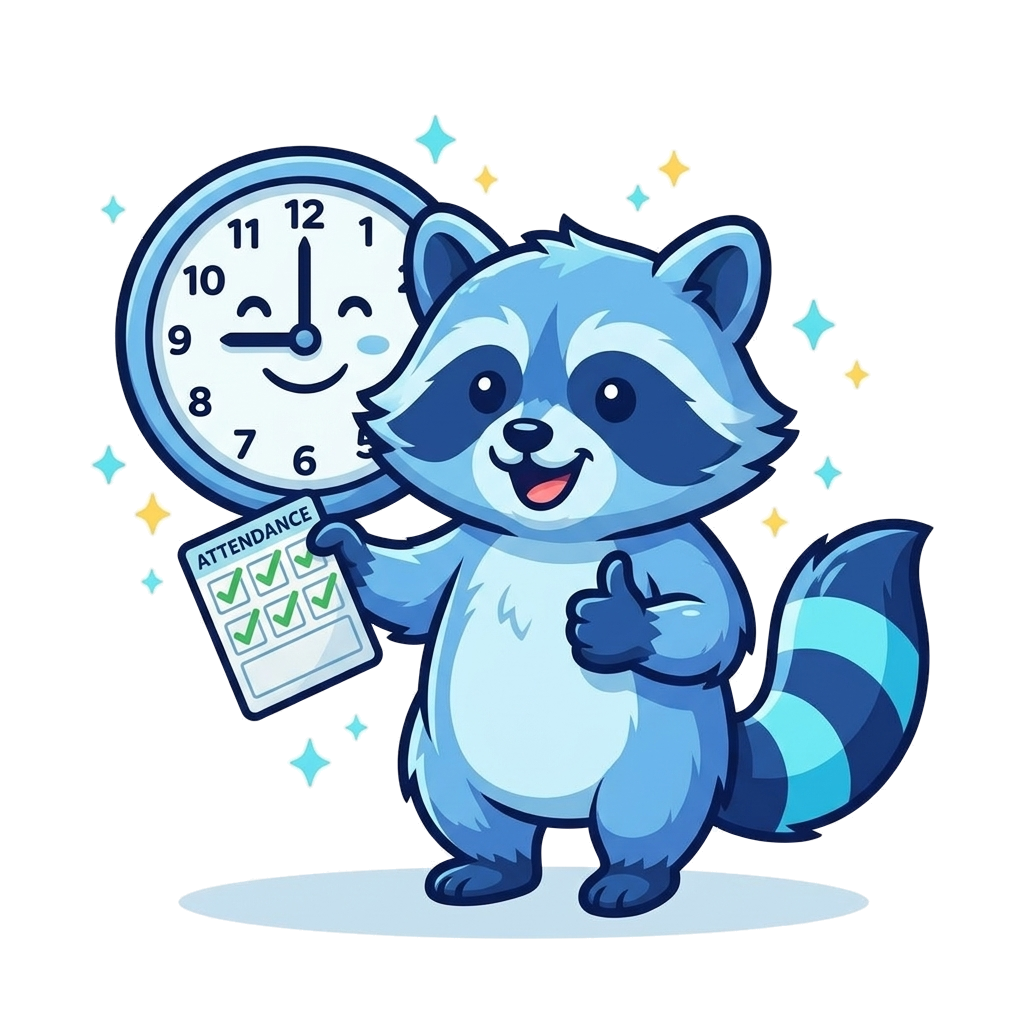
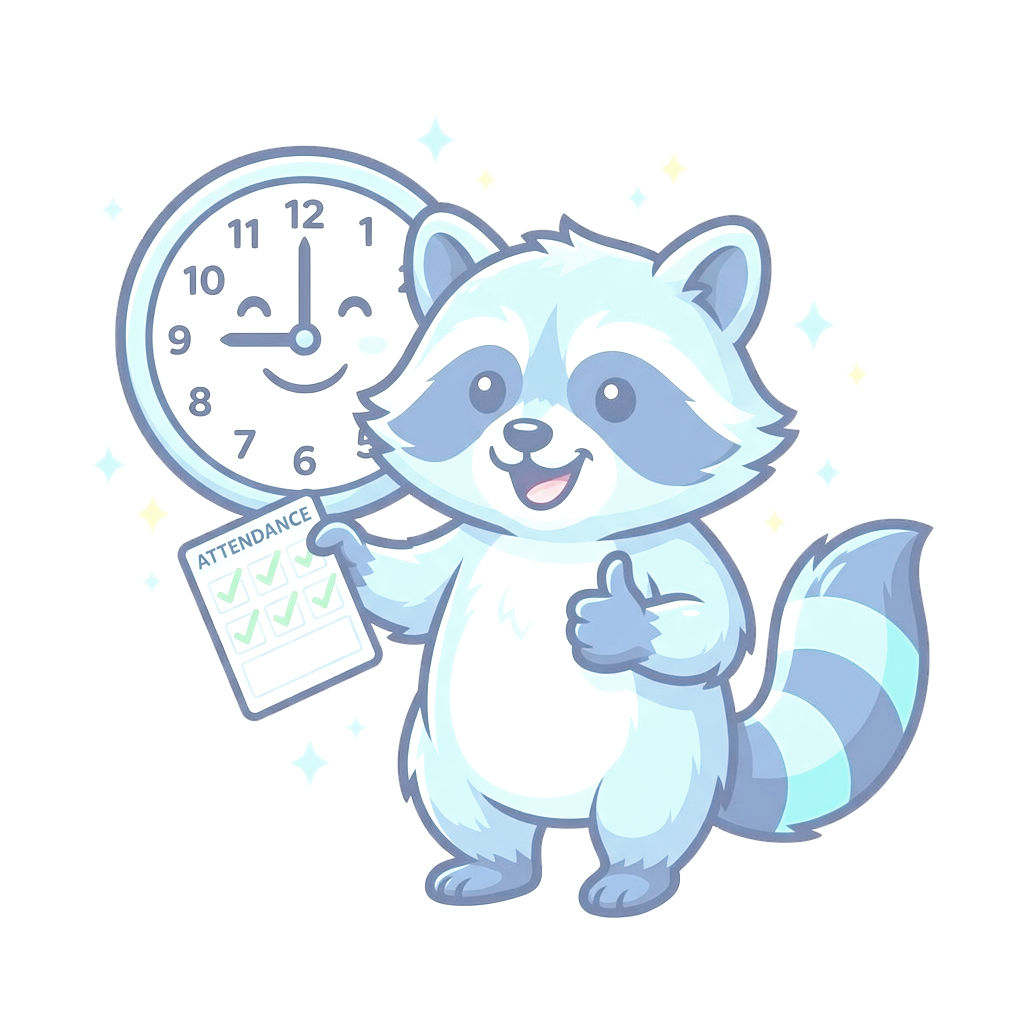
feat(design-system): add dual light and dark theme mascot illustrations

diff --git a/apps/web/src/design-system/components/EmptyState/EmptyStateIllustration.tsx b/apps/web/src/design-system/components/EmptyState/EmptyStateIllustration.tsx
@@ -1,10 +1,17 @@
-import sleepingRaccoonImg from '../../../assets/sleeping_blue_raccoon.png';
-import onboardingRaccoonImg from '../../../assets/raccoon_onboarding.png';
-import leaveRaccoonImg from '../../../assets/raccoon_leave.png';
-import attendanceRaccoonImg from '../../../assets/raccoon_attendance.png';
-import timesheetsRaccoonImg from '../../../assets/raccoon_timesheets.png';
-import performanceRaccoonImg from '../../../assets/raccoon_performance.png';
-import employeesRaccoonImg from '../../../assets/raccoon_employees.png';
+import sleepingRaccoonLight from '../../../assets/sleeping_blue_raccoon.png';
+import sleepingRaccoonDark from '../../../assets/sleeping_blue_raccoon_dark.png';
+import onboardingRaccoonLight from '../../../assets/raccoon_onboarding.png';
+import onboardingRaccoonDark from '../../../assets/raccoon_onboarding_dark.png';
+import leaveRaccoonLight from '../../../assets/raccoon_leave.png';
+import leaveRaccoonDark from '../../../assets/raccoon_leave_dark.png';
+import attendanceRaccoonLight from '../../../assets/raccoon_attendance.png';
+import attendanceRaccoonDark from '../../../assets/raccoon_attendance_dark.png';
+import timesheetsRaccoonLight from '../../../assets/raccoon_timesheets.png';
+import timesheetsRaccoonDark from '../../../assets/raccoon_timesheets_dark.png';
+import performanceRaccoonLight from '../../../assets/raccoon_performance.png';
+import performanceRaccoonDark from '../../../assets/raccoon_performance_dark.png';
+import employeesRaccoonLight from '../../../assets/raccoon_employees.png';
+import employeesRaccoonDark from '../../../assets/raccoon_employees_dark.png';
 import { BezentIcon } from '../../icons';
 import './EmptyStateIllustration.css';
 
@@ -46,19 +53,36 @@ export interface EmptyStateIllustrationProps {
   imageAlt?: string;
 }
 
-/** Registry of dedicated mascot illustrations mapped by page/module variant */
-export const RACCOON_ILLUSTRATIONS: Record<string, string> = {
-  default: sleepingRaccoonImg,
-  onboarding: onboardingRaccoonImg,
-  leave: leaveRaccoonImg,
-  attendance: attendanceRaccoonImg,
-  timesheets: timesheetsRaccoonImg,
-  performance: performanceRaccoonImg,
-  employees: employeesRaccoonImg,
-  employee: employeesRaccoonImg,
-  documents: employeesRaccoonImg,
-  document: employeesRaccoonImg,
+/** Registry of dedicated mascot illustrations mapped by page/module variant for Light theme */
+export const RACCOON_ILLUSTRATIONS_LIGHT: Record<string, string> = {
+  default: sleepingRaccoonLight,
+  onboarding: onboardingRaccoonLight,
+  leave: leaveRaccoonLight,
+  attendance: attendanceRaccoonLight,
+  timesheets: timesheetsRaccoonLight,
+  performance: performanceRaccoonLight,
+  employees: employeesRaccoonLight,
+  employee: employeesRaccoonLight,
+  documents: employeesRaccoonLight,
+  document: employeesRaccoonLight,
 };
+
+/** Registry of dedicated mascot illustrations mapped by page/module variant for Dark theme */
+export const RACCOON_ILLUSTRATIONS_DARK: Record<string, string> = {
+  default: sleepingRaccoonDark,
+  onboarding: onboardingRaccoonDark,
+  leave: leaveRaccoonDark,
+  attendance: attendanceRaccoonDark,
+  timesheets: timesheetsRaccoonDark,
+  performance: performanceRaccoonDark,
+  employees: employeesRaccoonDark,
+  employee: employeesRaccoonDark,
+  documents: employeesRaccoonDark,
+  document: employeesRaccoonDark,
+};
+
+/** Default export mapping for backwards compatibility */
+export const RACCOON_ILLUSTRATIONS: Record<string, string> = RACCOON_ILLUSTRATIONS_LIGHT;
 
 /** Contextual badge accents for pages awaiting dedicated AI generation */
 export const VARIANT_ACCENTS: Record<string, { icon: string; label: string; color: string }> = {
@@ -85,8 +109,7 @@ export const VARIANT_ACCENTS: Record<string, { icon: string; label: string; colo
  * gentle floating starlight sparkles and subtle breathing motion.
  * Renders page-specific variants (onboarding, attendance, leave, etc.)
  * with contextual theme badges for pages awaiting dedicated full-body art.
- * Supports generic custom illustration image sources while preserving the
- * synchronized breathing animation and starlight atmosphere.
+ * Automatically adapts between Light (airy pastel) and Dark (rich pastel) palettes.
  */
 export function EmptyStateIllustration({
   size = 'default',
@@ -96,7 +119,9 @@ export function EmptyStateIllustration({
   variant = 'default',
   imageAlt = '',
 }: EmptyStateIllustrationProps) {
-  const activeImage = imageSrc || RACCOON_ILLUSTRATIONS[variant] || sleepingRaccoonImg;
+  const lightImage = imageSrc || RACCOON_ILLUSTRATIONS_LIGHT[variant] || sleepingRaccoonLight;
+  const darkImage = imageSrc || RACCOON_ILLUSTRATIONS_DARK[variant] || sleepingRaccoonDark;
+  const isDefaultVariant = variant === 'default' || !RACCOON_ILLUSTRATIONS_LIGHT[variant];
   const accent = VARIANT_ACCENTS[variant];
   const isDark =
     isDarkProp ??
@@ -109,15 +134,24 @@ export function EmptyStateIllustration({
       aria-hidden="true"
     >
       <div className="bezent-sleeping-raccoon-stage">
+        {/* Light theme mascot image */}
         <img
-          src={activeImage}
+          src={lightImage}
           alt={imageAlt}
-          className={`bezent-sleeping-raccoon-img bezent-sleeping-raccoon-img--${variant}`}
+          className={`bezent-sleeping-raccoon-img bezent-sleeping-raccoon-img--light bezent-sleeping-raccoon-img--${variant}`}
+          draggable={false}
+        />
+
+        {/* Dark theme mascot image */}
+        <img
+          src={darkImage}
+          alt={imageAlt}
+          className={`bezent-sleeping-raccoon-img bezent-sleeping-raccoon-img--dark bezent-sleeping-raccoon-img--${variant}`}
           draggable={false}
         />
 
         {/* Floating Contextual Theme Badge for pages without dedicated full-body art */}
-        {accent && activeImage === sleepingRaccoonImg && (
+        {accent && isDefaultVariant && (
           <div
             className={`bezent-stage-accent-badge bezent-stage-accent-badge--${variant}`}
             title={accent.label}

diff --git a/apps/web/src/design-system/components/EmptyState/EmptyStateIllustration.css b/apps/web/src/design-system/components/EmptyState/EmptyStateIllustration.css
@@ -47,6 +47,24 @@
   filter: drop-shadow(0 4px 14px rgba(0, 0, 0, 0.06));
 }
 
+.bezent-sleeping-raccoon-img--dark {
+  display: none !important;
+}
+
+.bezent-sleeping-raccoon-img--light {
+  display: block;
+}
+
+[data-theme='dark'] .bezent-sleeping-raccoon-img--dark,
+.bezent-empty-illustration-container.is-dark .bezent-sleeping-raccoon-img--dark {
+  display: block !important;
+}
+
+[data-theme='dark'] .bezent-sleeping-raccoon-img--light,
+.bezent-empty-illustration-container.is-dark .bezent-sleeping-raccoon-img--light {
+  display: none !important;
+}
+
 .bezent-empty-illustration-container--compact .bezent-sleeping-raccoon-img {
   max-width: 110px;
   max-height: 110px;
